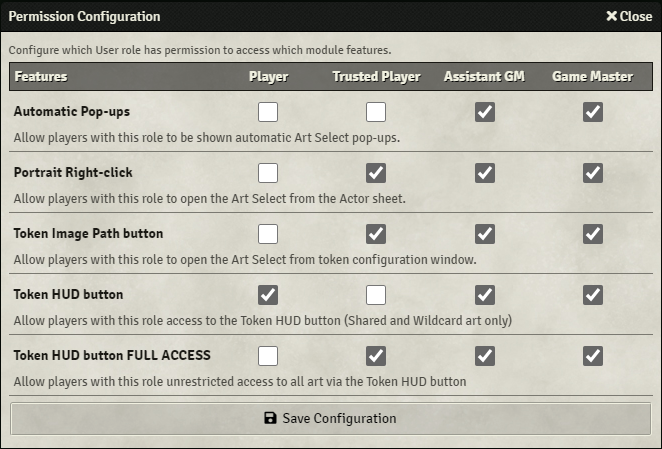
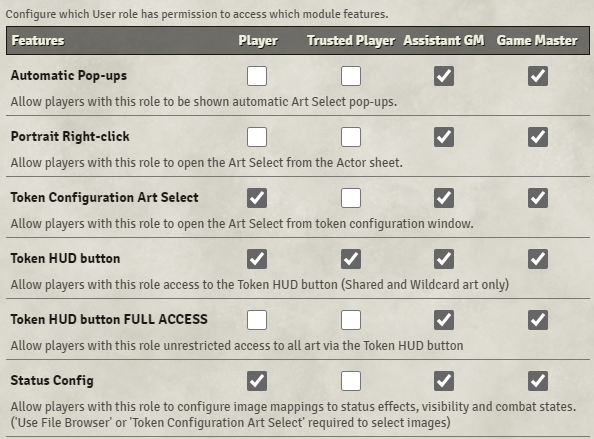
Version bump - Status Config setting is now a permissions

diff --git a/scripts/settings.js b/scripts/settings.js
@@ -75,7 +75,6 @@ export const TVA_CONFIG = {
     twoPopupsNoDialog: false,
   },
   imgurClientId: '',
-  enableStatusConfig: false,
   stackStatusConfig: false,
   staticCache: false,
   tilesEnabled: false,
@@ -113,6 +112,12 @@ export const TVA_CONFIG = {
       4: true,
     },
     hudFullAccess: {
+      1: false,
+      2: false,
+      3: true,
+      4: true,
+    },
+    statusConfig: {
       1: false,
       2: false,
       3: true,
@@ -178,16 +183,16 @@ export async function registerSettings() {
     onChange: (val) => (TVA_CONFIG.debug = val),
   });
 
-  // if (typeof ForgeAPI !== 'undefined') {
-  game.settings.registerMenu('token-variants', 'forgeSearchPaths', {
-    name: game.i18n.localize('token-variants.settings.forge-search-paths.Name'),
-    hint: game.i18n.localize('token-variants.settings.forge-search-paths.Hint'),
-    icon: 'fas fa-search',
-    type: ForgeSearchPaths,
-    scope: 'client',
-    restricted: false,
-  });
-  // }
+  if (typeof ForgeAPI !== 'undefined') {
+    game.settings.registerMenu('token-variants', 'forgeSearchPaths', {
+      name: game.i18n.localize('token-variants.settings.forge-search-paths.Name'),
+      hint: game.i18n.localize('token-variants.settings.forge-search-paths.Hint'),
+      icon: 'fas fa-search',
+      type: ForgeSearchPaths,
+      scope: 'client',
+      restricted: false,
+    });
+  }
 
   // Deprecated 01/06/2022
   game.settings.register('token-variants', 'searchPaths', {
@@ -293,14 +298,6 @@ export async function registerSettings() {
     config: false,
     type: String,
     default: TVA_CONFIG.imgurClientId,
-  });
-
-  // Deprecated 01/06/2022
-  game.settings.register('token-variants', 'enableStatusConfig', {
-    scope: 'world',
-    config: false,
-    default: TVA_CONFIG.enableStatusConfig,
-    type: Boolean,
   });
 
   // Deprecated 01/06/2022
@@ -410,7 +407,6 @@ export async function fetchAllSettings() {
   TVA_CONFIG.randomizer = game.settings.get('token-variants', 'randomizerSettings');
   TVA_CONFIG.popup = game.settings.get('token-variants', 'popupSettings');
   TVA_CONFIG.imgurClientId = game.settings.get('token-variants', 'imgurClientId');
-  TVA_CONFIG.enableStatusConfig = game.settings.get('token-variants', 'enableStatusConfig');
   TVA_CONFIG.compendiumMapper = game.settings.get('token-variants', 'compendiumMapper');
   TVA_CONFIG.disableNotifs = game.settings.get('token-variants', 'disableNotifs');
   TVA_CONFIG.permissions = game.settings.get('token-variants', 'permissions');

diff --git a/templates/configureSettings.html b/templates/configureSettings.html
@@ -400,7 +400,7 @@
             </li>
         
             <li class="permission form-group">
-              <label class="index">Token Image Path button</label>
+              <label class="index">Token Configuration Art Select</label>
               <div class="form-fields">
                 <input type="checkbox" name="permissions.image_path_button.1" {{#if permissions.image_path_button.[1]}}checked{{/if}} />
                 <input type="checkbox" name="permissions.image_path_button.2" {{#if permissions.image_path_button.[2]}}checked{{/if}} />
@@ -430,6 +430,17 @@
                 <input type="checkbox" name="permissions.hudFullAccess.4" {{#if permissions.hudFullAccess.[4]}}checked{{/if}} />
               </div>
               <p class="hint">Allow players with this role unrestricted access to all art via the Token HUD button</p>
+            </li>
+
+            <li class="permission form-group">
+              <label class="index">Status Config</label>
+              <div class="form-fields">
+                <input type="checkbox" name="permissions.statusConfig.1" {{#if permissions.statusConfig.[1]}}checked{{/if}} />
+                <input type="checkbox" name="permissions.statusConfig.2" {{#if permissions.statusConfig.[2]}}checked{{/if}} />
+                <input type="checkbox" name="permissions.statusConfig.3" {{#if permissions.statusConfig.[3]}}checked{{/if}} />
+                <input type="checkbox" name="permissions.statusConfig.4" {{#if permissions.statusConfig.[4]}}checked{{/if}} />
+              </div>
+              <p class="hint">Allow players with this role to configure image mappings to status effects, visibility and combat states. ('Use File Browser' or 'Token Configuration Art Select' required to select images)</p>
             </li>
           </ul>
         </div>
@@ -529,14 +540,6 @@
           {{/if}}
 
           <hr>
-
-          <div class="form-group">
-            <label>{{localize "token-variants.settings.status-config.Name"}}</label>
-            <div class="form-fields">
-              <input type="checkbox" name="enableStatusConfig" data-dtype="Boolean" {{#if enableStatusConfig}}checked{{/if}}>
-            </div>
-            <p class="notes">{{localize "token-variants.settings.status-config.Hint"}}</p>
-          </div>
 
           <div class="form-group">
             <label>Stack Configurations</label>

diff --git a/applications/activeEffectConfigList.js b/applications/activeEffectConfigList.js
@@ -1,6 +1,7 @@
 import { showArtSelect } from '../token-variants.mjs';
 import { SEARCH_TYPE, getFileName } from '../scripts/utils.js';
 import TokenCustomConfig from './tokenCustomConfig.js';
+import { TVA_CONFIG } from '../scripts/settings.js';
 
 export default class ActiveEffectConfigList extends FormApplication {
   constructor(token) {
@@ -58,7 +59,8 @@ export default class ActiveEffectConfigList extends FormApplication {
     html.find('.delete-mapping').click(this._onRemove.bind(this));
     html.find('.create-mapping').click(this._onCreate.bind(this));
     html.find('.save-mappings').click(this._onSaveMappings.bind(this));
-    html.find('.effect-image img').click(this._onImageClick.bind(this));
+    if (TVA_CONFIG.permissions.image_path_button[game.user.role])
+      html.find('.effect-image img').click(this._onImageClick.bind(this));
     html.find('.effect-image img').contextmenu(this._onImageRightClick.bind(this));
     html.find('.effect-config i').click(this._onConfigClick.bind(this));
   }

diff --git a/applications/activeEffectConfig.js b/applications/activeEffectConfig.js
@@ -1,6 +1,7 @@
 import { showArtSelect } from '../token-variants.mjs';
 import { SEARCH_TYPE, getFileName } from '../scripts/utils.js';
 import TokenCustomConfig from './tokenCustomConfig.js';
+import { TVA_CONFIG } from '../scripts/settings.js';
 
 export default class ActiveEffectConfig extends FormApplication {
   constructor(token, effectImg, effectName) {
@@ -58,7 +59,8 @@ export default class ActiveEffectConfig extends FormApplication {
   activateListeners(html) {
     super.activateListeners(html);
     html.find('.remove').click(this._onRemove.bind(this));
-    html.find('img.image').click(this._onImageClick.bind(this));
+    if (TVA_CONFIG.permissions.image_path_button[game.user.role])
+      html.find('img.image').click(this._onImageClick.bind(this));
     html.find('img.image').contextmenu(this._onImageRightClick.bind(this));
     html.find('button.effect-config').click(this._onConfigClick.bind(this));
   }

diff --git a/applications/tokenHUD.js b/applications/tokenHUD.js
@@ -22,8 +22,7 @@ export async function renderHud(hud, html, token, searchText = '') {
   const PARTIAL_ACCESS = TVA_CONFIG.permissions.hud[game.user.role];
 
   if (
-    TVA_CONFIG.enableStatusConfig &&
-    game.user.isGM &&
+    TVA_CONFIG.permissions.statusConfig[game.user.role] &&
     token.actorId &&
     game.actors.get(token.actorId)
   ) {

diff --git a/applications/tokenCustomConfig.js b/applications/tokenCustomConfig.js
@@ -9,7 +9,7 @@ export default class TokenCustomConfig extends TokenConfig {
       });
     } else {
       token = new TokenDocument(object.data, {
-        actor: object.actor,
+        actor: game.actors.get(object.actorId),
       });
     }
     super(token, options);

diff --git a/README.md b/README.md
@@ -47,7 +47,6 @@ e.g.
   - [Match name to folder](#match-name-to-folder)
 - [Image configuration](#image-configuration)
 - [Image to User mappings](#image-to-user-mappings)
-- [Enable Status Config](#enable-status-config)
 - [Compendium Mapper](#compendium-mapper)
 - [Permissions](#permissions)
 - [Installation](#installation)
@@ -207,14 +206,6 @@ Images displayed in the Token HUD can be Shift-Right clicked to open a window th
 
 !["User Image Mapping"](./docs/user_to_image.png)
 
-## Enable Status Config
-
-Allows to map images to Visibility/Combat status and Active Effects.
-
-!["Status Configuration"](./docs/status_config.png)
-
-The window is accessed by Shift+Left-Clicking on the status buttons or the Active Effects in the Token HUD.
-
 ## Compendium Mapper
 
 Auto-updates or queues up 'Art Select' window for all Actors within a Compendium.
@@ -226,6 +217,14 @@ Auto-updates or queues up 'Art Select' window for all Actors within a Compendium
 Allows to enable and disable module features based on the user's role.
 
 !["Permission Configuration"](./docs/permissions.png)
+
+### Status Config
+
+Allows to map images to Visibility/Combat status and Active Effects.
+
+!["Status Configuration"](./docs/status_config.png)
+
+The window is accessed by Shift+Left-Clicking on the status buttons or the Active Effects in the Token HUD.
 
 ## Installation
 

diff --git a/CHANGELOG.md b/CHANGELOG.md
@@ -1,3 +1,12 @@
+# 2.5.0
+
+- **Enable Status Config** setting replaced by the new **Status Config** permission
+  - Allows any role to access status mappings
+  - Configuration can only be changed if the user owns the token/actor
+  - New images can only be selected if the user has **User File Browser** or **Token Configuration Art Select** permissions
+- Renamed **Token Image Path button** permission to **Token Configuration Art Select**
+- **Forge Asset Library Paths** setting should no longer show up when the game is not running on ForgeVTT
+
 # 2.4.0
 
 Compendium Mapper
